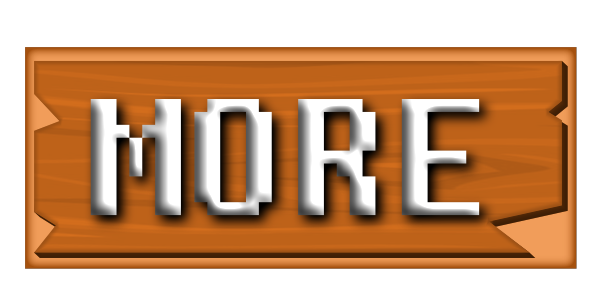
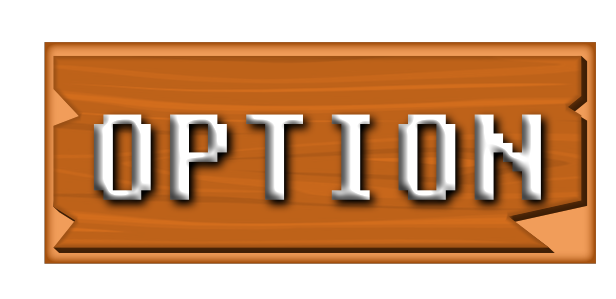
change something

diff --git a/PythonApplication11/PythonApplication11.py b/PythonApplication11/PythonApplication11.py
@@ -25,6 +25,7 @@ MAX_ENEMY = 2
 scroll = 0
 bg_scroll = 0
 game_over = False
+menu_state = "main"
 main_menu = True
 score = 0
 
@@ -59,6 +60,13 @@ start_image = pygame.image.load('assets/Start_Button.png').convert_alpha()
 start_image = pygame.transform.scale(start_image,(100,50))
 exit_image = pygame.image.load('assets/Exit_Button.png').convert_alpha()
 exit_image = pygame.transform.scale(exit_image,(100,50))
+guide_image = pygame.image.load('assets/Guide_Button.png').convert_alpha()
+guide_image = pygame.transform.scale(guide_image,(100,50))
+highscore_image = pygame.image.load('assets/More_Button.png').convert_alpha()
+highscore_image = pygame.transform.scale(highscore_image,(100,50))
+back_image = pygame.image.load('assets/Back_Button.png').convert_alpha()
+back_image = pygame.transform.scale(back_image,(50,50))
+
 
 
 def draw_text(text,font,text_color,x,y):
@@ -178,8 +186,8 @@ class Player():
 		return scroll
 
 	def draw(self):
-		screen.blit(pygame.transform.flip(self.image, self.flip_x, False), (self.rect.x - 12, self.rect.y - 4))
-		
+		screen.blit(pygame.transform.flip(self.image, self.flip_x, False), (self.rect.x - 10, self.rect.y - 5))
+		pygame.draw.rect(screen, WHITE, self.rect, 2)
 
 
 #platform class
@@ -249,8 +257,11 @@ class Enemy(pygame.sprite.Sprite):
 			self.kill()
 
 #create buttons
-start_button = Button(SCREEN_WIDTH // 2 - 50, SCREEN_HEIGHT // 2 - 100, start_image)
-exit_button = Button(SCREEN_WIDTH // 2 - 50, SCREEN_HEIGHT // 2 - 50, exit_image)
+start_button = Button(SCREEN_WIDTH // 2 - 50, SCREEN_HEIGHT // 2 -100, start_image)
+guide_button = Button(SCREEN_WIDTH // 2 - 50, SCREEN_HEIGHT // 2 -50, guide_image)
+exit_button = Button(SCREEN_WIDTH // 2 - 50, SCREEN_HEIGHT // 2 + 50, exit_image)
+more_button = Button(SCREEN_WIDTH // 2 - 50, SCREEN_HEIGHT // 2 , highscore_image)
+back_button = Button(SCREEN_WIDTH -125, SCREEN_HEIGHT -100, back_image)
 				   
 #player init position
 player = Player(SCREEN_WIDTH // 2, SCREEN_HEIGHT - 150)
@@ -270,13 +281,29 @@ while run:
 	clock.tick(FPS)
 
 	screen.blit(bg_image1, (0,0))
-	draw_text("Press a and d to move",font,RED,100,SCREEN_HEIGHT -200)
-	draw_text("Press w to jump",font,RED,125,SCREEN_HEIGHT -150)
-	if main_menu == True:
-		if exit_button.draw():
-			run = False
-		if start_button.draw():
-			main_menu = False
+	if main_menu==True:
+		if menu_state =="main":
+			if exit_button.draw():
+				run = False
+			if start_button.draw():
+				main_menu=False 
+			if guide_button.draw():
+				menu_state ="guide"
+			if more_button.draw():
+				menu_state = "highscore"
+		if menu_state =="guide":
+			draw_text("Press A and D to move",font,RED,100,SCREEN_HEIGHT//2 -100)
+			draw_text("Press W to jump",font,RED,125,SCREEN_HEIGHT//2)
+			if back_button.draw():
+				menu_state = "main"
+		if menu_state == "highscore":
+			draw_text("HIGHEST SCORE: " + str(high_score),font,RED,75,300)
+			if back_button.draw():
+				menu_state = "main"
+        
+		
+		
+		
 	else:
 
 		if game_over == False:
@@ -341,6 +368,10 @@ while run:
 			platform_group.draw(screen)
 			enemy_group.draw(screen)
 			player.draw()
+
+			#draw enemy rectangle
+			#for enemy in enemy_group:
+				#pygame.draw.rect(screen, WHITE, enemy.rect, 2)
 		
 
 			#draw support
